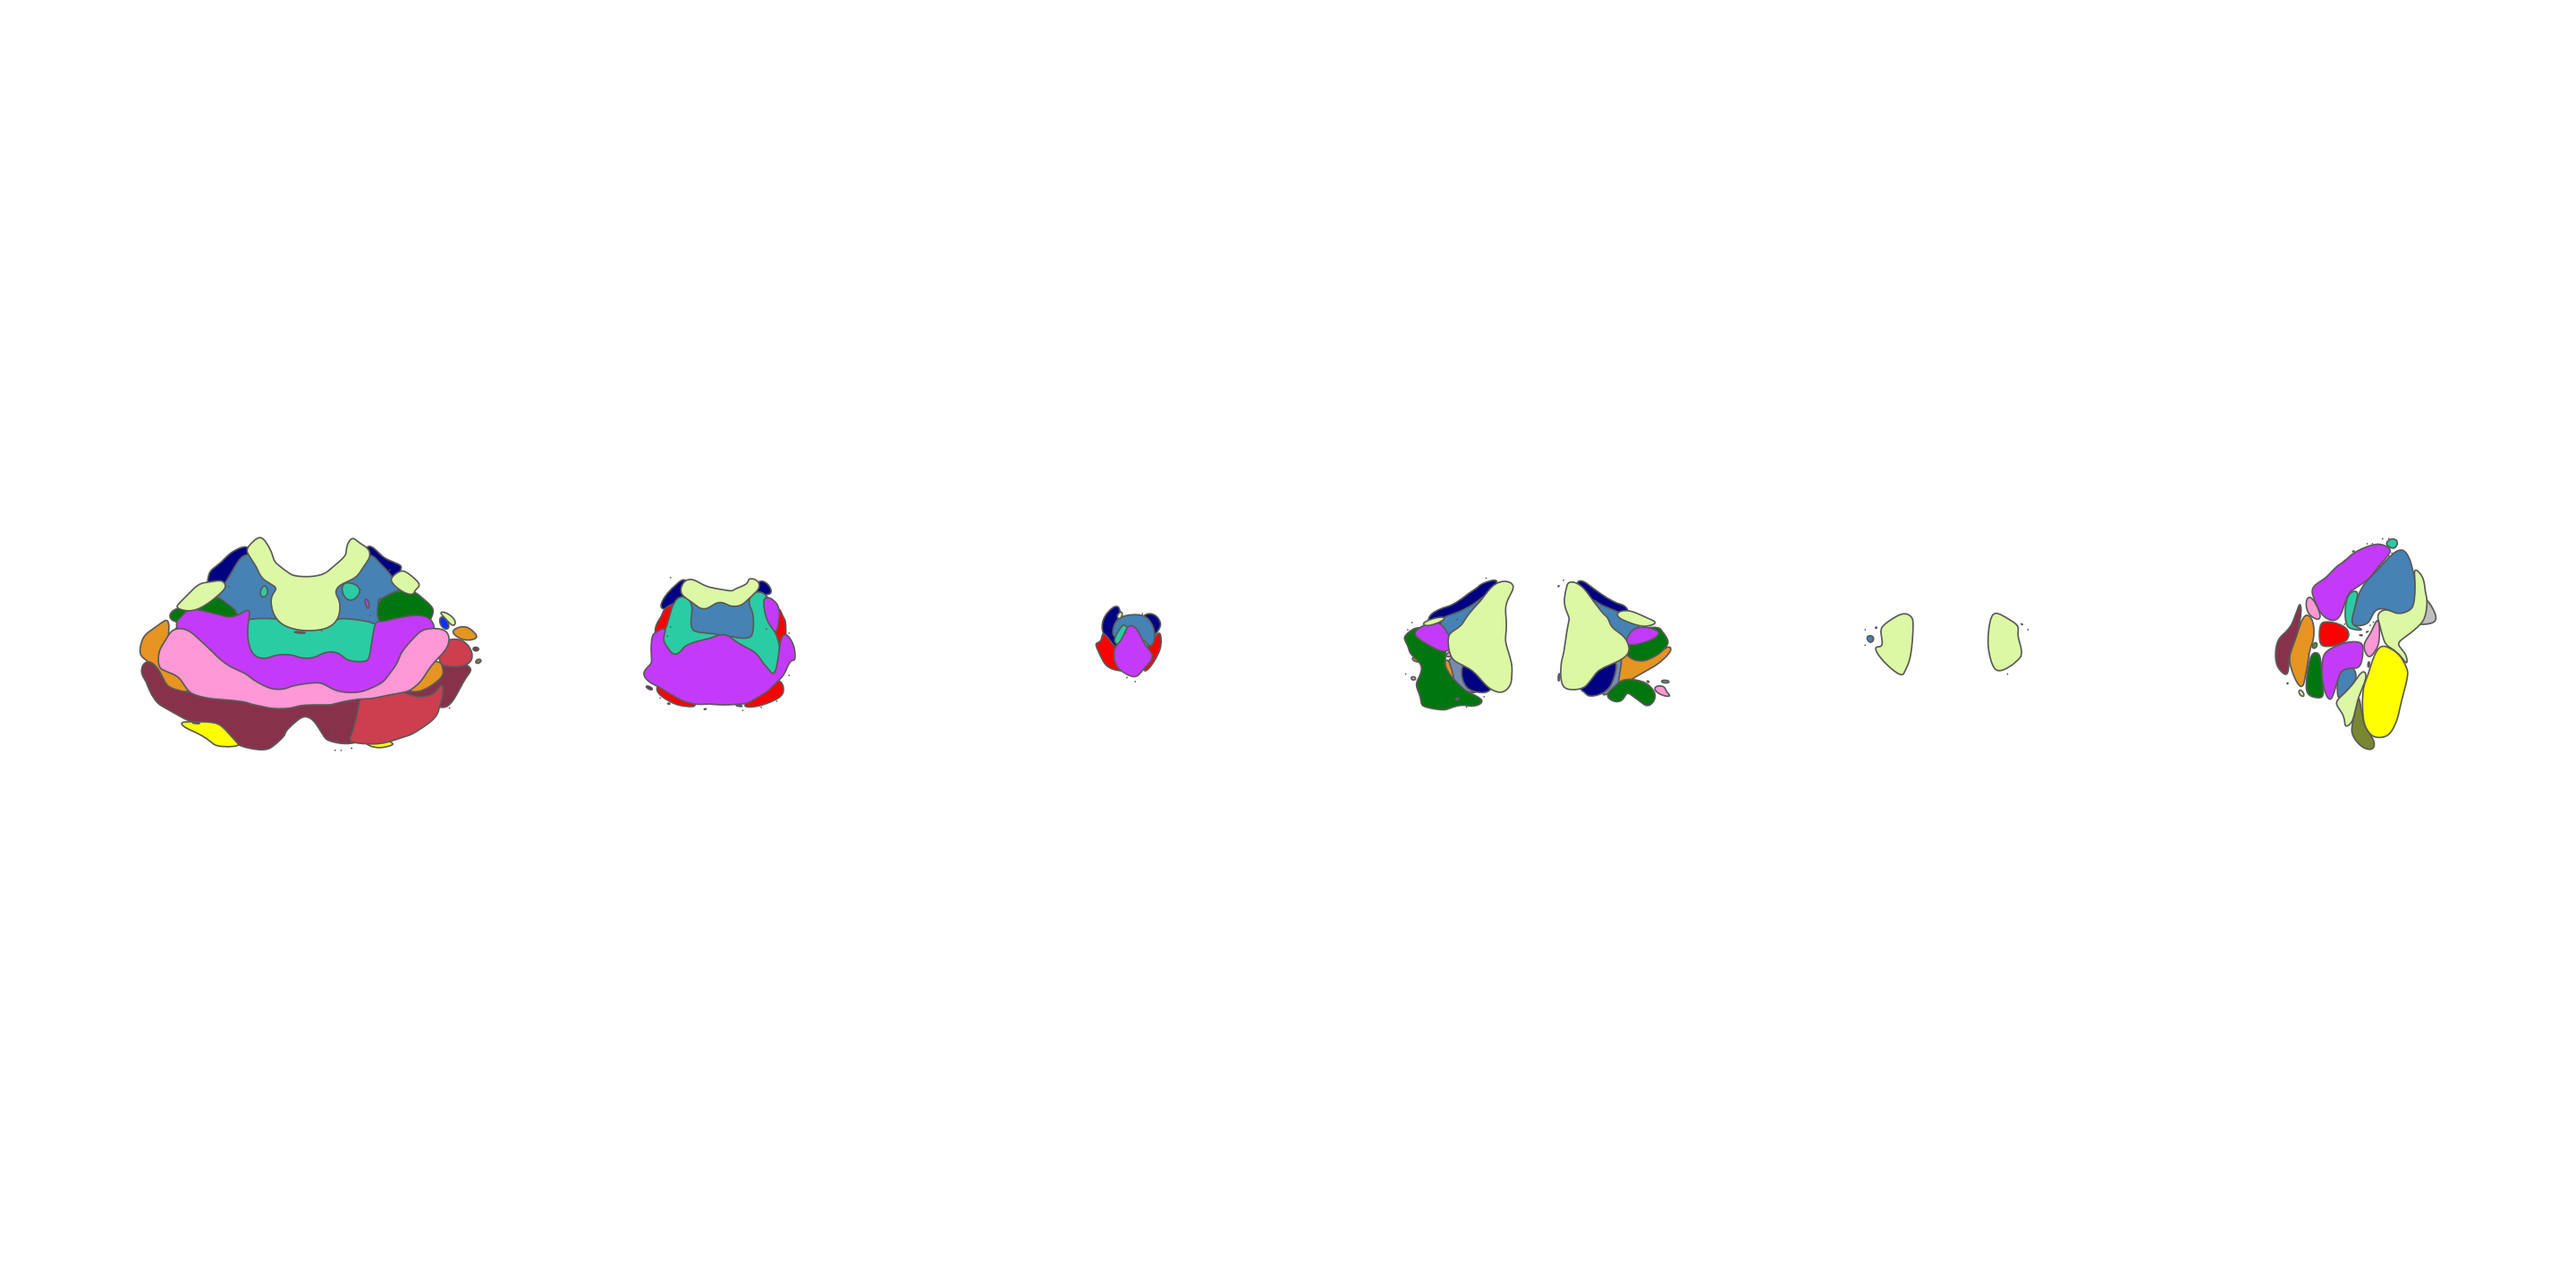
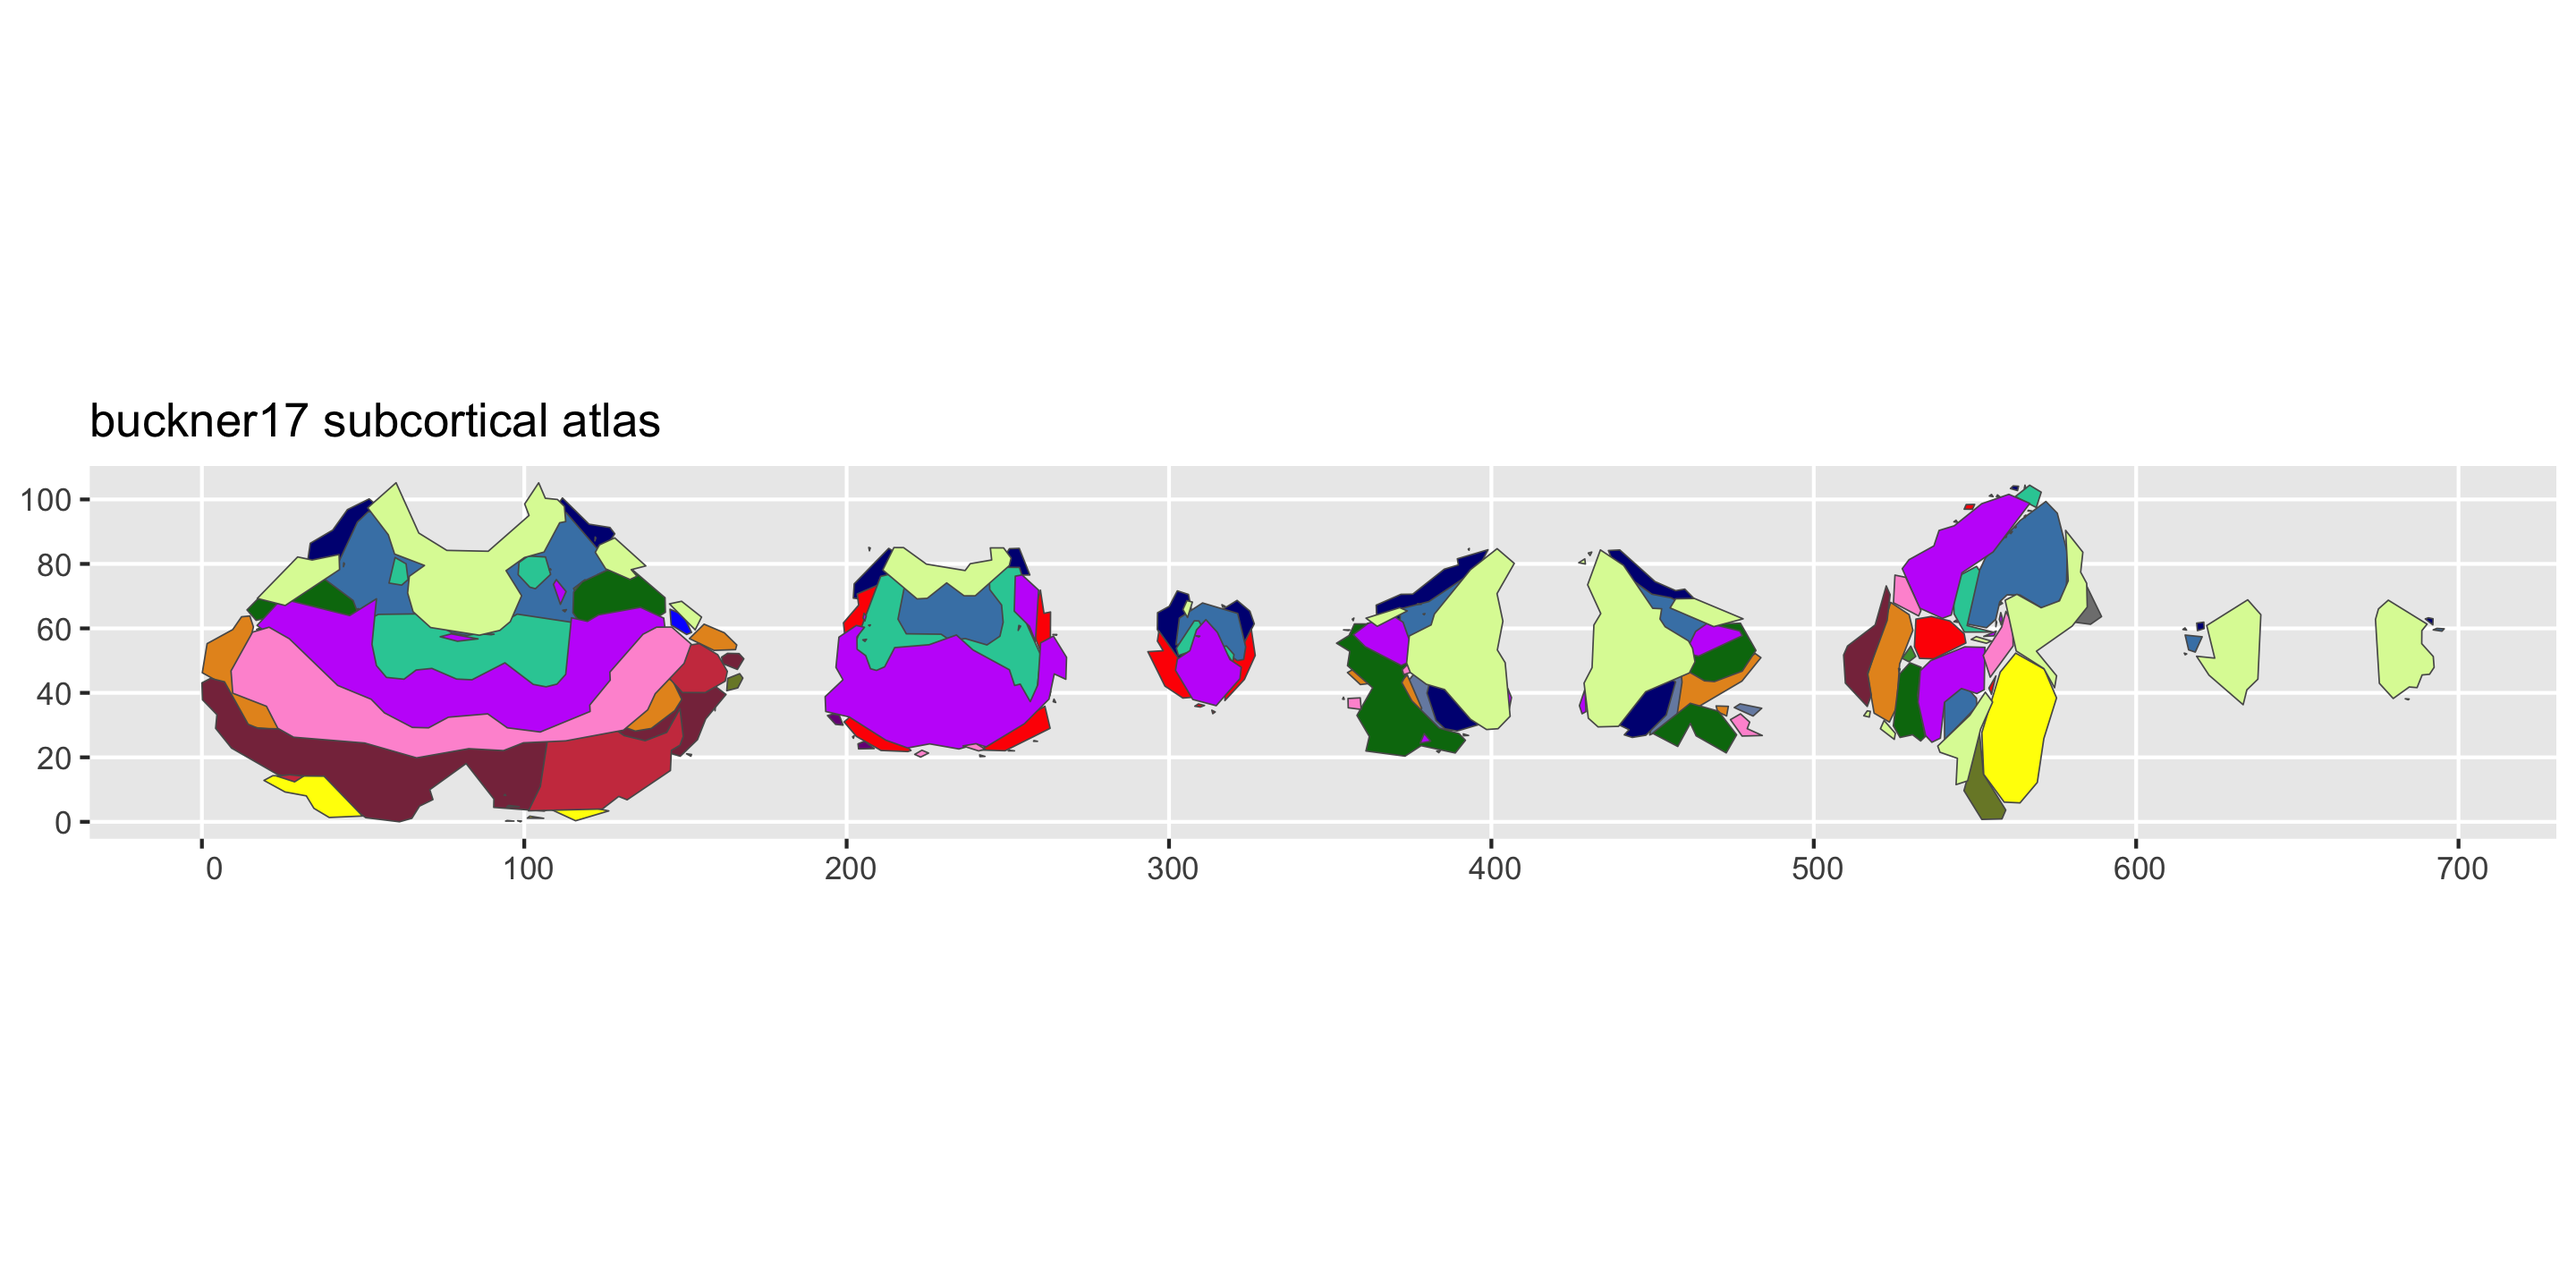
Simplify README plots to use plot() and re-render

Changed region(s): [[0.0, 0.3125, 1.0, 0.6875]]

diff --git a/README.md b/README.md
@@ -38,17 +38,8 @@ pak::pak("ggsegverse/ggsegBuckner")
 ``` r
 library(ggseg)
 library(ggsegBuckner)
-library(ggplot2)
 
-ggplot() +
-  geom_brain(
-    atlas = buckner7(),
-    mapping = aes(fill = label),
-    position = position_brain(. ~ view),
-    show.legend = FALSE
-  ) +
-  scale_fill_manual(values = buckner7()$palette, na.value = "grey") +
-  theme_void()
+plot(buckner7())
 ```
 
 <img src="man/figures/README-buckner7-1.png" style="width:100.0%" />
@@ -56,15 +47,7 @@ ggplot() +
 ## 17-network parcellation
 
 ``` r
-ggplot() +
-  geom_brain(
-    atlas = buckner17(),
-    mapping = aes(fill = label),
-    position = position_brain(. ~ view),
-    show.legend = FALSE
-  ) +
-  scale_fill_manual(values = buckner17()$palette, na.value = "grey") +
-  theme_void()
+plot(buckner17())
 ```
 
 <img src="man/figures/README-buckner17-1.png" style="width:100.0%" />
